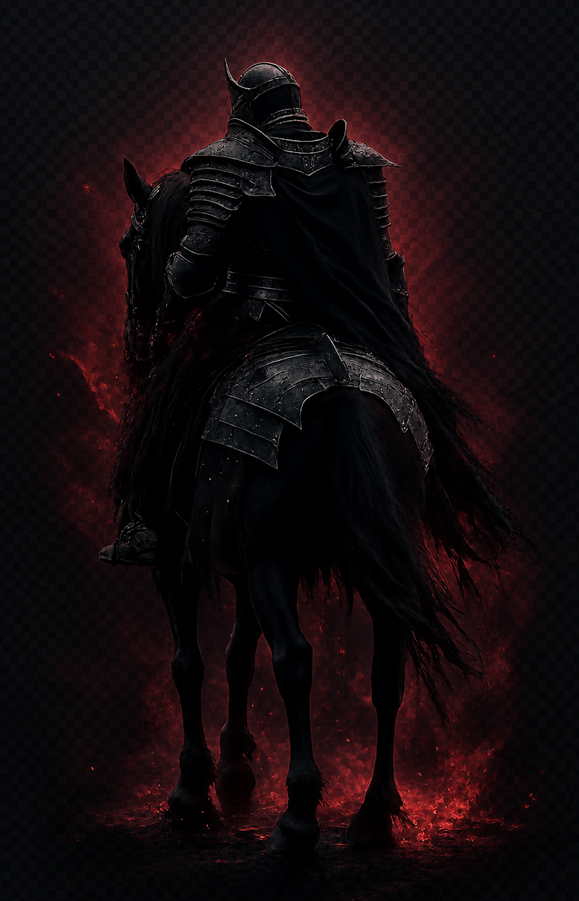
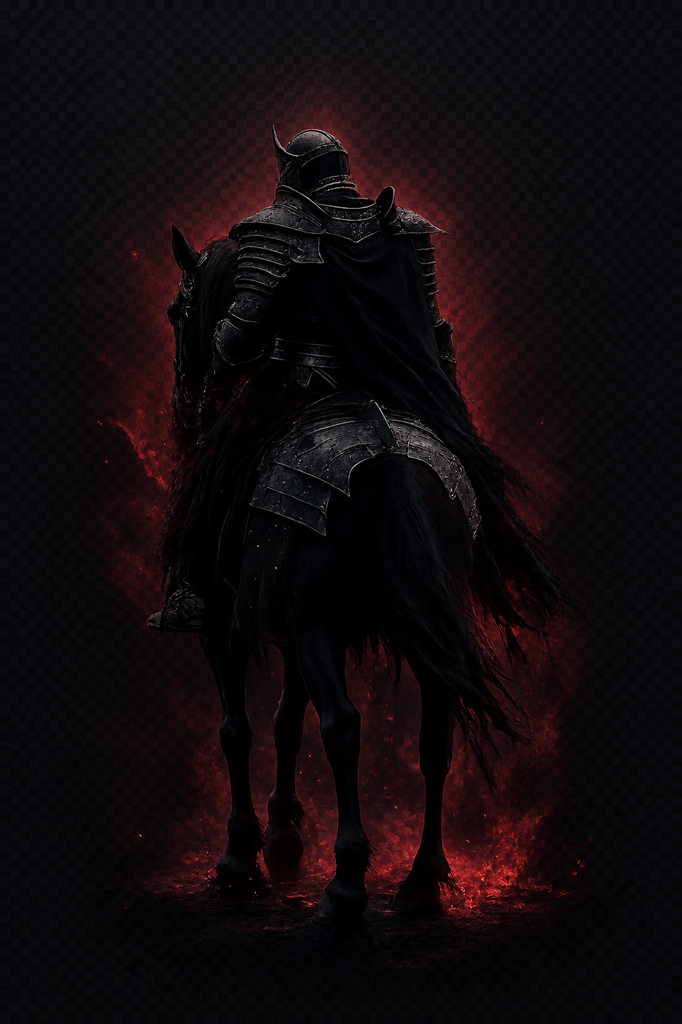
feat: sign up page

diff --git a/apps/errant-tower-client/src/pages/auth/sign-up-page.tsx b/apps/errant-tower-client/src/pages/auth/sign-up-page.tsx
@@ -1,10 +1,166 @@
+import { useEffect, useState, type ChangeEvent } from 'react';
+import { Link, useNavigate } from 'react-router';
 import { useTranslation } from 'react-i18next';
+import { wrapMutation } from '../../api/api-proxy';
+import { useCompleteSignUp, useStartSignUp } from '../../api/generated/hooks';
+import { useUserStore } from '../../common/state/user-store';
+import { routes } from '../../common/config';
+import { validateAuthCode, validateEmail, validateUsername } from './auth-utils';
+import styles from './auth-page.module.scss';
 
 export const SignUpPage = () => {
     const { t } = useTranslation();
+    const navigate = useNavigate();
+    const startSignUp = wrapMutation(useStartSignUp)();
+    const completeSignUp = wrapMutation(useCompleteSignUp)();
+    const signIn = useUserStore((state) => state.actions.signIn);
+    const [email, setEmail] = useState('');
+    const [emailError, setEmailError] = useState('');
+    const [username, setUsername] = useState('');
+    const [usernameError, setUsernameError] = useState('');
+    const [actionCode, setActionCode] = useState('');
+    const [actionCodeError, setActionCodeError] = useState('');
+
+    const signUpDisable = startSignUp.isLoading || completeSignUp.isLoading;
+    const signUpErrors = [...(startSignUp.errors ?? []), ...(completeSignUp.errors ?? [])];
+
+    useEffect(() => {
+        if (completeSignUp.isSuccess && completeSignUp.data) {
+            signIn({ username: completeSignUp.data.username });
+            navigate(routes.home);
+        }
+    }, [signIn, navigate, completeSignUp.isSuccess, completeSignUp.data]);
+
+    const onEmailChange = (event: ChangeEvent<HTMLInputElement>) => {
+        setEmailError('');
+        setEmail(event.target.value);
+    };
+
+    const onUsernameChange = (event: ChangeEvent<HTMLInputElement>) => {
+        setUsernameError('');
+        setUsername(event.target.value);
+    };
+
+    const onActionCodeChange = (event: ChangeEvent<HTMLInputElement>) => {
+        setActionCodeError('');
+        setActionCode(event.target.value.replace(/\D/g, ''));
+    };
+
+    const onStartSignUp = () => {
+        if (startSignUp.isSuccess) {
+            return;
+        }
+
+        if (!validateEmail(email)) {
+            setEmailError('errors.emailInvalid');
+            return;
+        } else {
+            setEmailError('');
+        }
+
+        if (!validateUsername(username)) {
+            setUsernameError('errors.usernameInvalid');
+            return;
+        } else {
+            setUsernameError('');
+        }
+
+        startSignUp.call({ email, username });
+    };
+
+    const onCompleteSignUp = () => {
+        if (!startSignUp.isSuccess) {
+            return;
+        }
+
+        if (!validateEmail(email)) {
+            setEmailError('errors.emailInvalid');
+            return;
+        } else {
+            setEmailError('');
+        }
+
+        if (!validateAuthCode(actionCode)) {
+            setActionCodeError('errors.actionCodeInvalid');
+            return;
+        } else {
+            setActionCodeError('');
+        }
+
+        completeSignUp.call({ email, actionCode });
+    };
+
     return (
-        <section>
-            <h1>{t('auth.signUpTitle')}</h1>
+        <section className={styles.signInWrapper}>
+            <Link to={routes.root}>
+                <img src="./images/brand/title.png" className={styles.titleImageSmall} />
+            </Link>
+            <div className={styles.formWrapper}>
+                <p className={styles.formTitle}>{t('auth.signUpTitle')}</p>
+                <hr className={styles.titleDivider} />
+
+                <label htmlFor="email" className={styles.formLabel}>
+                    {t('auth.email')}
+                </label>
+                <input
+                    id="email"
+                    type="text"
+                    className={styles.formInput}
+                    value={email}
+                    onChange={onEmailChange}
+                />
+                {emailError && <p className={styles.formError}>{t(emailError)}</p>}
+
+                <label htmlFor="email" className={styles.formLabel}>
+                    {t('auth.username')}
+                </label>
+                <input
+                    id="username"
+                    type="text"
+                    className={styles.formInput}
+                    value={username}
+                    onChange={onUsernameChange}
+                />
+                {usernameError && <p className={styles.formError}>{t(usernameError)}</p>}
+
+                {startSignUp.isSuccess && (
+                    <>
+                        <label htmlFor="actionCode" className={styles.formLabel}>
+                            {t('auth.actionCode')}
+                        </label>
+                        <input
+                            id="actionCode"
+                            type="text"
+                            inputMode="numeric"
+                            className={styles.formInput}
+                            value={actionCode}
+                            onChange={onActionCodeChange}
+                        />
+                        {actionCodeError && <p className={styles.formError}>{t(actionCodeError)}</p>}
+                    </>
+                )}
+
+                {signUpErrors.map((error) => (
+                    <p key={error.key} className={styles.formApiError}>
+                        {t(error.key)}
+                    </p>
+                ))}
+
+                <button
+                    className={styles.signInFormButton}
+                    disabled={signUpDisable}
+                    onClick={startSignUp.isSuccess ? onCompleteSignUp : onStartSignUp}>
+                    {t('auth.signUp')}
+                </button>
+
+                <hr className={styles.infoDivider} />
+                <p className={styles.formInfoWrapper}>
+                    <span>{t('auth.alreadySignedUp')}</span>
+                    <Link className={styles.formInfoLink} to={routes.signIn}>
+                        {t('auth.signInNow')}
+                    </Link>
+                </p>
+            </div>
         </section>
     );
 };

diff --git a/apps/errant-tower-client/src/pages/auth/auth-page.module.scss b/apps/errant-tower-client/src/pages/auth/auth-page.module.scss
@@ -2,12 +2,9 @@
 @use '../../common/styles/variables.scss' as *;
 
 .authWrapper {
-    // display: block;
-    // padding-top: $spacing-24;
-    // padding-left: $spacing-32;
     min-height: 90vh;
     display: flex;
-    flex-direction: column;
+    flex-direction: row;
     align-items: center;
     justify-content: center;
     overflow-y: auto;
@@ -17,7 +14,7 @@
 .teaserWrapper {
     width: 90%;
     max-width: 40rem;
-    margin-right: 10%;
+    // margin-right: 8%;
     padding: $spacing-4;
     padding-bottom: $spacing-8;
     display: flex;
@@ -40,6 +37,10 @@
     .teaserWrapper {
         margin: 0;
         margin-top: $spacing-32;
+    }
+
+    .knightImage {
+        display: none;
     }
 }
 
@@ -67,6 +68,31 @@
 
 .teaserSignUpButton {
     @include secondaryButton;
+}
+
+.knightImage {
+    width: 90%;
+    max-width: 20rem;
+    align-self: flex-end;
+    mask-image: radial-gradient(ellipse 60% 80% at center, black 25%, transparent 60%);
+    -moz-mask-image: radial-gradient(ellipse 60% 80% at center, black 25%, transparent 60%);
+
+    img {
+        opacity: 0.9;
+        width: 90%;
+        animation: colorRotate 12s;
+        animation-iteration-count: infinite;
+        animation-direction: alternate;
+    }
+
+    @keyframes colorRotate {
+        from {
+            filter: hue-rotate(0deg);
+        }
+        to {
+            filter: hue-rotate(360deg);
+        }
+    }
 }
 
 .signInWrapper {
@@ -153,6 +179,7 @@
 
 .formApiError {
     margin-top: $spacing-2;
+    margin-bottom: -$spacing-2;
     font-size: 12px;
     color: $color-red-500;
     padding-left: $spacing-px;
@@ -162,7 +189,7 @@
     @include primaryButton;
 
     width: 90%;
-    margin-top: $spacing-2;
+    margin-top: $spacing-4;
 }
 
 .infoDivider {

diff --git a/apps/errant-tower-client/src/pages/auth/sign-in-page.tsx b/apps/errant-tower-client/src/pages/auth/sign-in-page.tsx
@@ -78,10 +78,13 @@ export const SignInPage = () => {
 
     return (
         <section className={styles.signInWrapper}>
-            <img src="./images/brand/title.png" className={styles.titleImageSmall} />
+            <Link to={routes.root}>
+                <img src="./images/brand/title.png" className={styles.titleImageSmall} />
+            </Link>
             <div className={styles.formWrapper}>
                 <p className={styles.formTitle}>{t('auth.signInTitle')}</p>
                 <hr className={styles.titleDivider} />
+
                 <label htmlFor="email" className={styles.formLabel}>
                     {t('auth.email')}
                 </label>
@@ -93,13 +96,14 @@ export const SignInPage = () => {
                     onChange={onEmailChange}
                 />
                 {emailError && <p className={styles.formError}>{t(emailError)}</p>}
+
                 {startSignIn.isSuccess && (
                     <>
-                        <label htmlFor="authCode" className={styles.formLabel}>
-                            {t('auth.authCode')}
+                        <label htmlFor="actionCode" className={styles.formLabel}>
+                            {t('auth.actionCode')}
                         </label>
                         <input
-                            id="authCode"
+                            id="actionCode"
                             type="text"
                             inputMode="numeric"
                             className={styles.formInput}
@@ -109,17 +113,20 @@ export const SignInPage = () => {
                         {actionCodeError && <p className={styles.formError}>{t(actionCodeError)}</p>}
                     </>
                 )}
+
                 {signInErrors.map((error) => (
                     <p key={error.key} className={styles.formApiError}>
                         {t(error.key)}
                     </p>
                 ))}
+
                 <button
                     className={styles.signInFormButton}
                     disabled={signInDisabled}
                     onClick={startSignIn.isSuccess ? onCompleteSignIn : onStartSignIn}>
                     {t('auth.signIn')}
                 </button>
+
                 <hr className={styles.infoDivider} />
                 <p className={styles.formInfoWrapper}>
                     <span>{t('auth.notSignedUp')}</span>

diff --git a/apps/errant-tower-client/src/api/custom-fetch.ts b/apps/errant-tower-client/src/api/custom-fetch.ts
@@ -57,7 +57,10 @@ export const customFetch = async <T>(config: FetchConfig, options?: RequestInit)
         }
 
         return JSON.parse(text);
-    } catch {
+    } catch (error) {
+        if (Array.isArray(error)) {
+            throw error;
+        }
         throw [{ key: 'errors.unknown' }];
     }
 };

diff --git a/apps/errant-tower-client/src/pages/auth/auth-page.tsx b/apps/errant-tower-client/src/pages/auth/auth-page.tsx
@@ -21,6 +21,9 @@ export const AuthPage = () => {
                     </button>
                 </div>
             </div>
+            <div className={styles.knightImage}>
+                <img src="./images/brand/dark-knight.png" />
+            </div>
         </section>
     );
 };